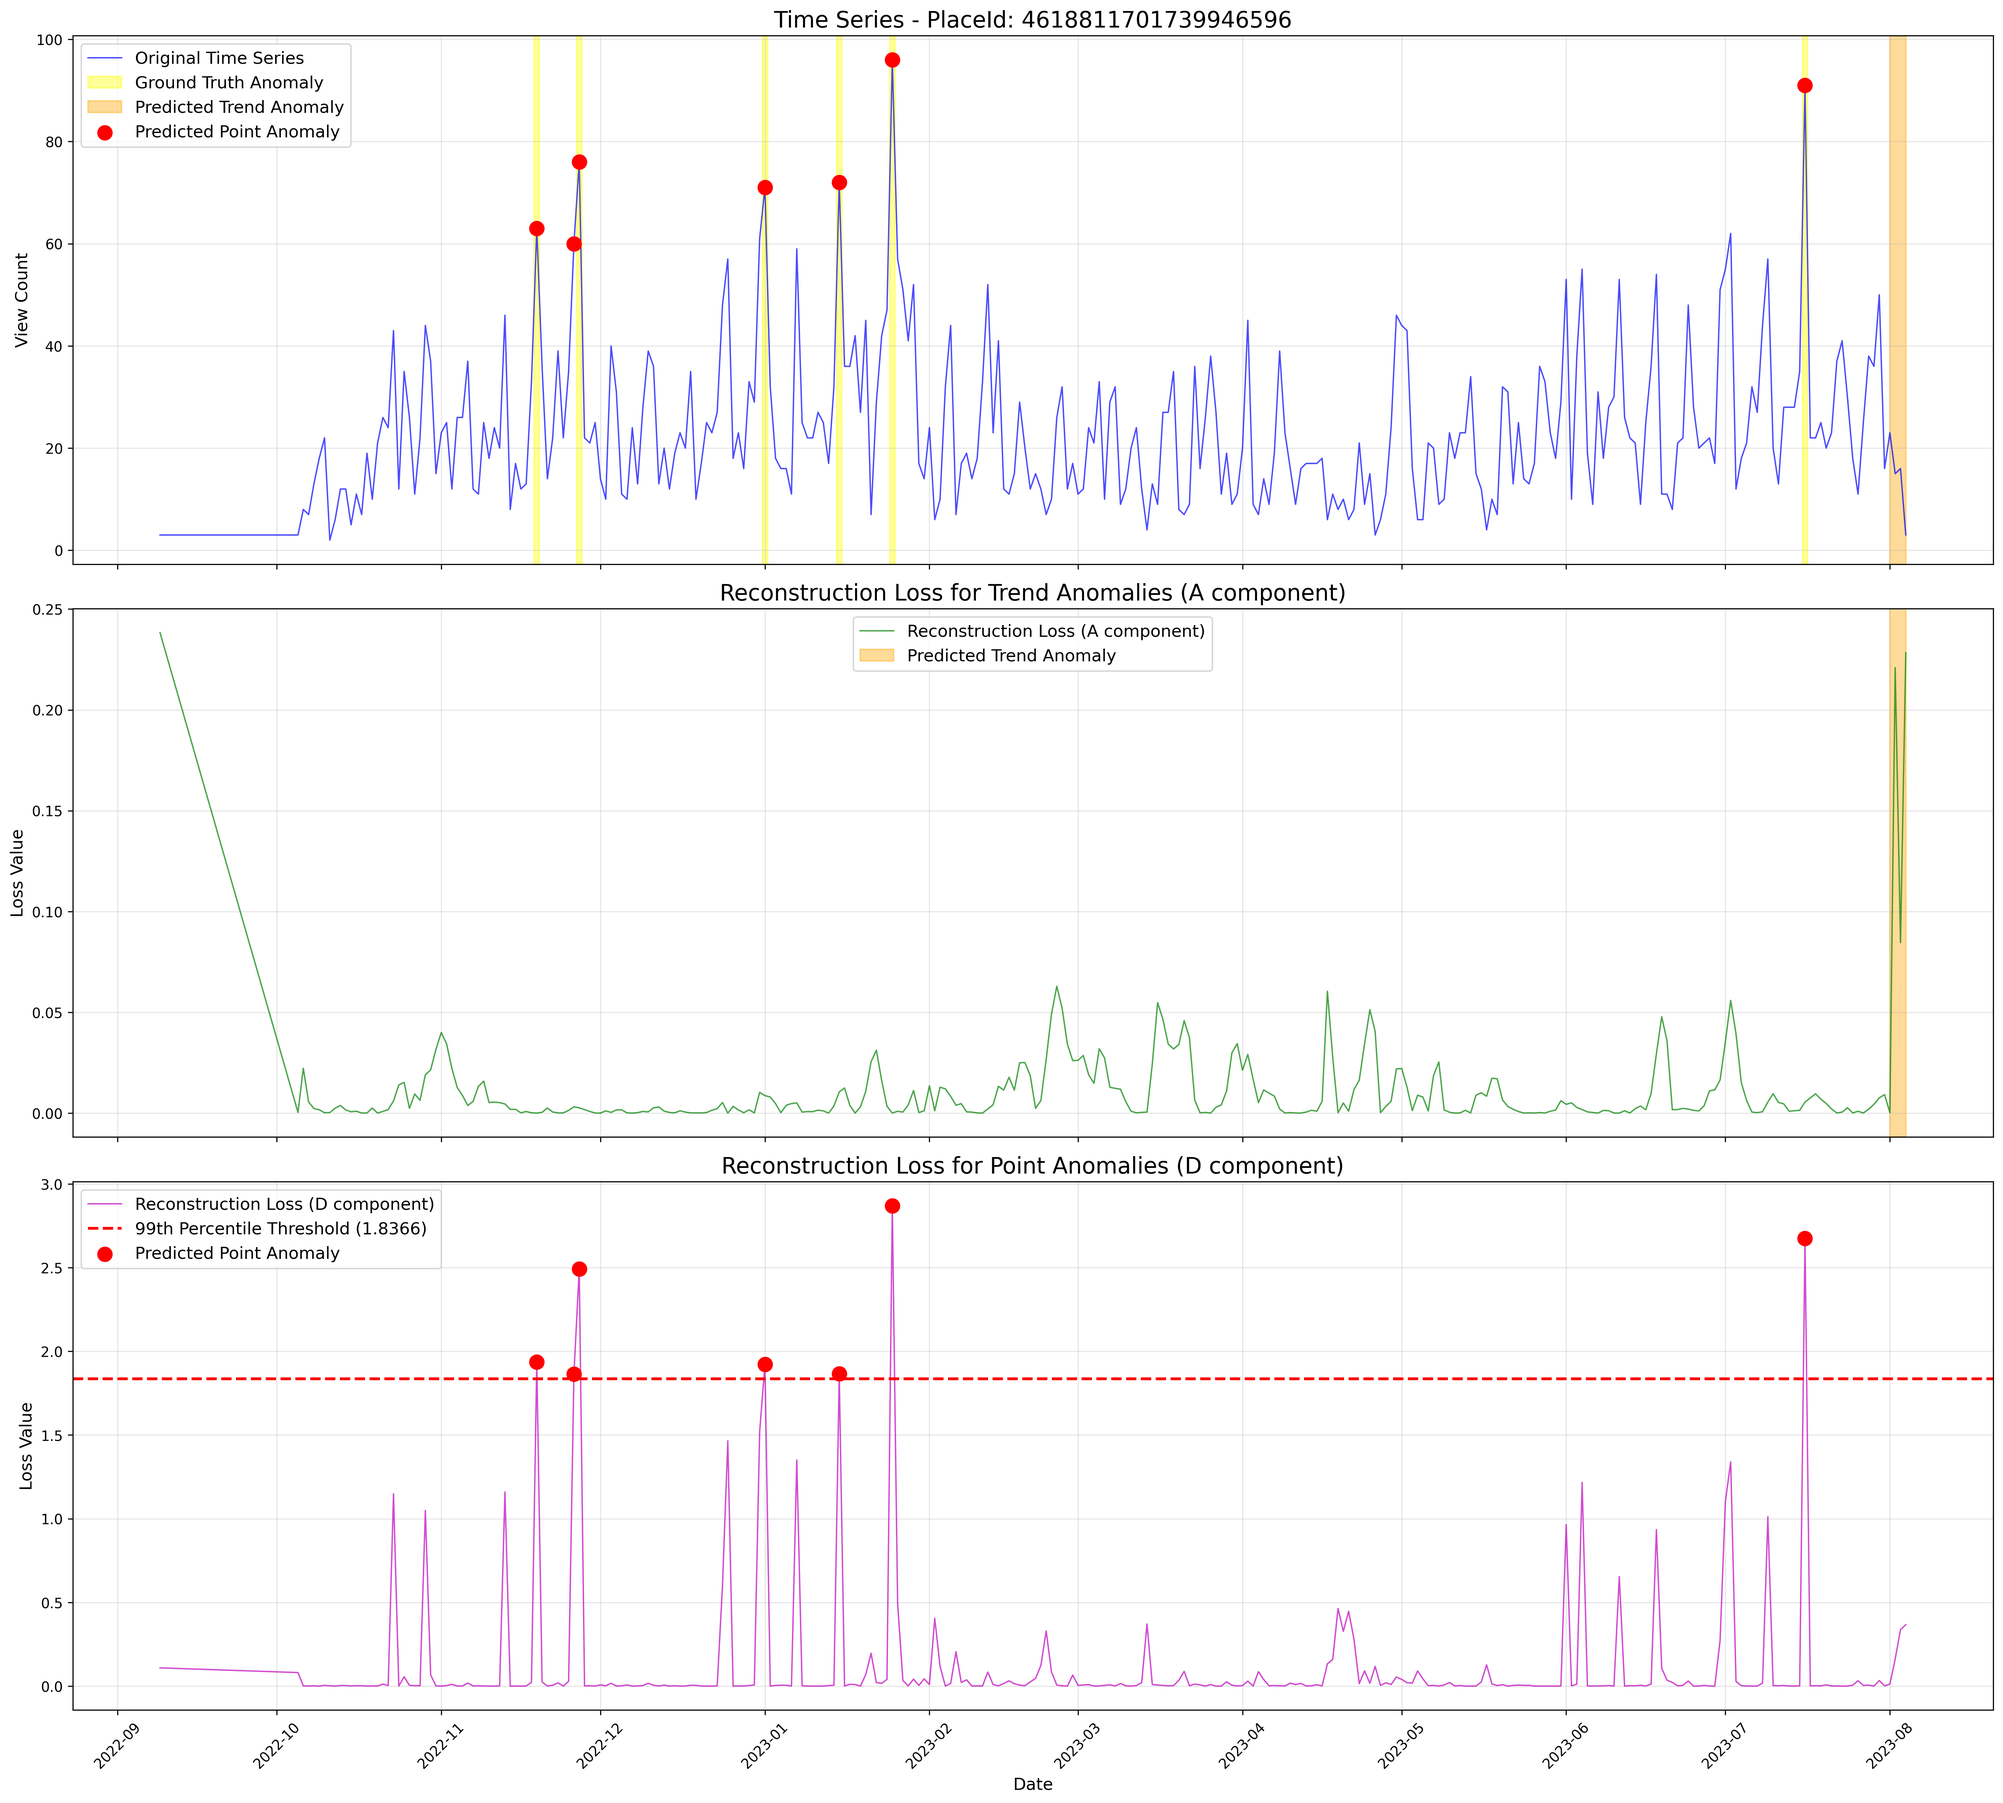
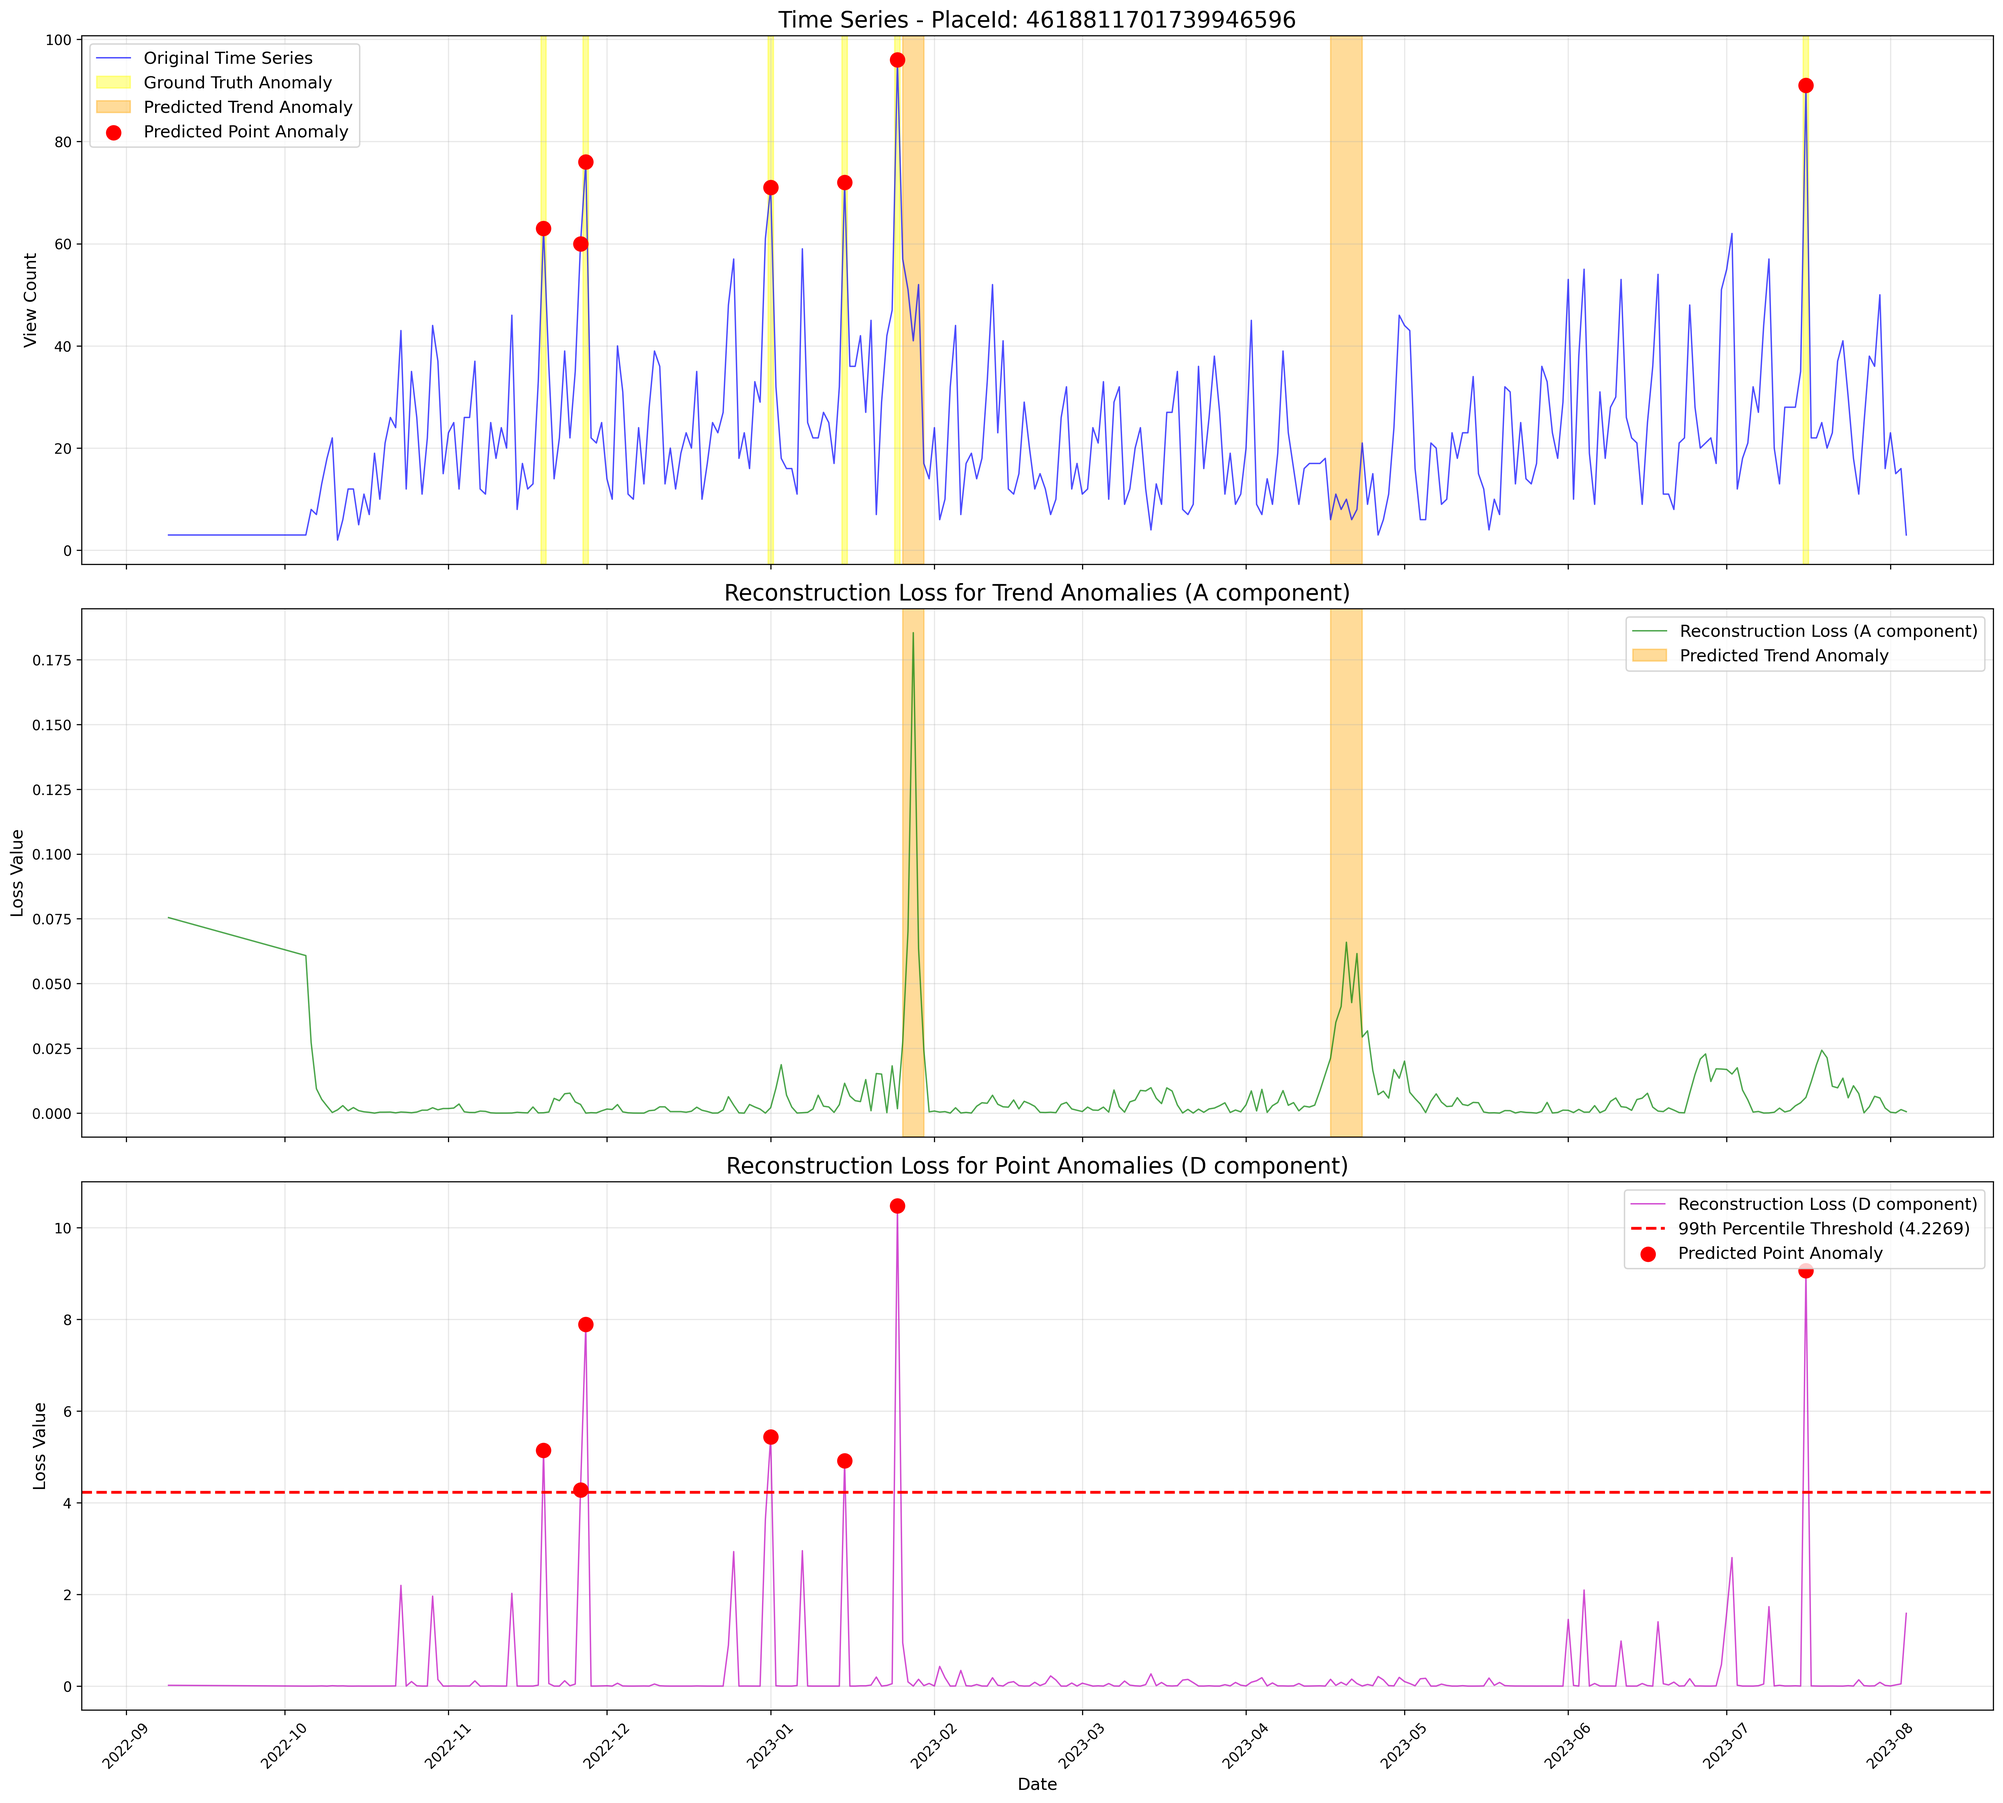
Update model

diff --git a/stage_1/KAMA.py b/stage_1/KAMA.py
@@ -3,26 +3,45 @@ import numpy as np
 import pandas_ta as ta # Thư viện mới để tính KAMA
 from sklearn.preprocessing import RobustScaler
 from scipy.stats import zscore
+from statsmodels.robust import mad
 
-def clean_and_augment_d(d, z_threshold=3.0, noise_scale=0.1):
+def clean_and_augment_d(d, method='mad', threshold=3.5, noise_scale=0.5):
     """
-    Clean outliers trong d và augment.
+    Làm sạch ngoại lệ trong d và tăng cường dữ liệu.
+    
     Args:
-        d: numpy array của detail component.
-        z_threshold: |z| > this là outlier (default 3 cho extreme).
-        noise_scale: Scale noise cho augmentation (0.1 * std).
+        d (np.ndarray): Mảng numpy của thành phần phần dư.
+        method (str): Phương pháp phát hiện ngoại lệ. 'mad' (mặc định) hoặc 'zscore'.
+        threshold (float): Ngưỡng để xác định một điểm là ngoại lệ.
+                           Mặc định là 3.5 cho MAD.
+        noise_scale (float): Tỷ lệ nhiễu để tăng cường dữ liệu.
+        
     Returns:
-        d_aug: d sau clean và augment.
+        d_aug (np.ndarray): Mảng d sau khi đã làm sạch và tăng cường.
     """
-    # Bước 2: Tính z-score
-    z_d = zscore(d)
-    
-    # Bước 3: Detect và replace outliers bằng median
-    outliers = np.abs(z_d) > z_threshold
+    d_clean = d.copy()
     median_d = np.median(d)
-    d_clean = np.where(outliers, median_d, d)
     
-    # Bước 4: Augmentation bằng add noise
+    if method == 'mad':
+        # Sử dụng Median Absolute Deviation (MAD) - Mạnh mẽ hơn Z-score
+        # MAD tính toán độ lệch so với trung vị, ít bị ảnh hưởng bởi ngoại lệ.
+        # hằng số 0.6745 giúp mad tương đương với độ lệch chuẩn của phân phối chuẩn.
+        d_mad = mad(d, c=0.6745)
+        
+        # Tránh chia cho 0 nếu chuỗi dữ liệu không có biến động
+        if d_mad > 1e-8:
+            # Tính điểm số dựa trên MAD
+            mad_score = np.abs(d - median_d) / d_mad
+            outliers = mad_score > threshold
+            d_clean = np.where(outliers, median_d, d)
+            
+    elif method == 'zscore':
+        # Giữ lại phương pháp Z-score nếu bạn muốn so sánh
+        z_d = zscore(d)
+        outliers = np.abs(z_d) > threshold
+        d_clean = np.where(outliers, median_d, d)
+
+    # Augmentation: Thêm nhiễu dựa trên độ lệch chuẩn của dữ liệu đã làm sạch
     std_clean = np.std(d_clean)
     noise = np.random.normal(0, noise_scale * std_clean, len(d_clean))
     d_aug = d_clean + noise
@@ -103,14 +122,20 @@ if __name__ == "__main__":
                 a_series = pd.Series(data['a (approximation)'])
                 d_series = pd.Series(data['d (detail)'])
 
+                # Clean và augment detail component - trả về numpy array
+                d_cleaned = clean_and_augment_d(d_series.values)  
+
                 print(f"\n--- Kết quả cho placeId: {place_id} ---")
                 print("Hệ số Xấp xỉ (a - Chuỗi xu hướng KAMA):")
                 print(a_series.head())
                 a_series.to_csv(f'kama_approximation_placeId_{place_id}.csv', index=False, header=['view'])
                 
                 print("\nHệ số Chi tiết (d - Chuỗi biến động KAMA):")
-                print(d_series.head())
-                d_series.to_csv(f'kama_detail_coeffs_placeId_{place_id}.csv', index=False, header=['view'])
+                print(d_cleaned[:5])  # In 5 phần tử đầu của numpy array
+                
+                # Chuyển numpy array thành pandas Series để lưu file
+                d_cleaned_series = pd.Series(d_cleaned)
+                d_cleaned_series.to_csv(f'kama_detail_coeffs_placeId_{place_id}.csv', index=False, header=['view'])
                 
                 print(f"\nĐã lưu kết quả vào file kama_approximation_placeId_{place_id}.csv và kama_detail_coeffs_placeId_{place_id}.csv")
                 print("\n" + "="*50 + "\n")

diff --git a/stage_2/main.py b/stage_2/main.py
@@ -10,6 +10,7 @@ import matplotlib.pyplot as plt
 from sklearn.manifold import TSNE
 from sklearn.model_selection import train_test_split
 from stage_1.STL import stl_decomposition, clean_and_augment_d
+from stage_1.KAMA import kama_decomposition
 from stage_2.AE import TimeSeriesAutoencoder
 from torch.utils.data import TensorDataset, DataLoader
 from sklearn.preprocessing import RobustScaler
@@ -117,9 +118,10 @@ if __name__ == "__main__":
     # --- 1. Nạp và Chuẩn bị Dữ liệu ---
     DATA_PATH = 'data/cleaned_data_after_idx30.csv'
     MODEL_SAVE_DIR = 'saved_models'  # Thư mục lưu model cuối cùng
+    os.makedirs(MODEL_SAVE_DIR, exist_ok=True)
     MODEL_SAVE_PATH = os.path.join(MODEL_SAVE_DIR, 'autoencoder_model.pth')
 
-    KAN_out_features = 32  # Số đặc trưng đầu ra từ mỗi KANMoELayer
+    KAN_out_features = 16  # Số đặc trưng đầu ra từ mỗi KANMoELayer (đã sửa từ 32 -> 16)
     feature_dim = KAN_out_features * 2  # Tổng số đặc trưng sau
 
     try:
@@ -164,7 +166,7 @@ if __name__ == "__main__":
 
             a_np, d_np = stl_decomposition(place_data_scaled)
 
-            d_np = clean_and_augment_d(d_np, method='mad')  # Clean và augment detail component
+            d_np = clean_and_augment_d(d_np, method='mad', noise_scale=0.5)  # Clean và augment detail component
 
             all_a_data.append(a_np)
             all_d_data.append(d_np)
@@ -224,7 +226,7 @@ if __name__ == "__main__":
                 reconstructed_a, reconstructed_d = autoencoder(a_batch, d_batch)
 
                 # Tính loss với mask
-                loss_fn = nn.HuberLoss(reduction='none')
+                loss_fn = nn.MSELoss(reduction='none')
                 loss_a = masked_loss(reconstructed_a, a_batch, mask_batch, loss_fn)
                 loss_d = masked_loss(reconstructed_d, d_batch, mask_batch, loss_fn)
                 total_loss = loss_a + loss_d
@@ -248,7 +250,7 @@ if __name__ == "__main__":
                     reconstructed_a, reconstructed_d = autoencoder(a_batch, d_batch)
                     
                     # Tính validation loss
-                    loss_fn = nn.HuberLoss(reduction='none')
+                    loss_fn = nn.MSELoss(reduction='none')
                     loss_a = masked_loss(reconstructed_a, a_batch, mask_batch, loss_fn)
                     loss_d = masked_loss(reconstructed_d, d_batch, mask_batch, loss_fn)
                     total_loss = loss_a + loss_d
@@ -307,8 +309,8 @@ if __name__ == "__main__":
                 # Forward pass
                 reconstructed_a, reconstructed_d = autoencoder(a_seq, d_seq)
                 
-                # Tính loss với mask và HuberLoss
-                loss_fn = nn.HuberLoss(reduction='none')
+                # Tính loss với mask và MSELoss
+                loss_fn = nn.MSELoss(reduction='none')
                 loss_a = masked_loss(reconstructed_a, a_seq, mask_seq, loss_fn).item()
                 loss_d = masked_loss(reconstructed_d, d_seq, mask_seq, loss_fn).item()
                 total_loss = loss_a + loss_d

diff --git a/stage_2/inference.py b/stage_2/inference.py
@@ -184,7 +184,7 @@ def inference_on_places(data_path, labels_dir, model_path, num_places=30):
     
     model, _ = load_model(model_path)
     
-    output_dir = 'inference_results_2'
+    output_dir = 'inference_results'
     os.makedirs(output_dir, exist_ok=True)
     
     results = []
@@ -205,14 +205,15 @@ def inference_on_places(data_path, labels_dir, model_path, num_places=30):
         scaler = RobustScaler()
         time_series_scaled = scaler.fit_transform(time_series.reshape(-1, 1)).flatten()
         
-        a_np, d_np = stl_decomposition(time_series_scaled)
+        _, d_np = kama_decomposition(time_series_scaled)
+        a_np, _ = stl_decomposition(time_series_scaled)
         
         a_tensor = torch.FloatTensor(a_np.copy()).unsqueeze(0).unsqueeze(-1)
         d_tensor = torch.FloatTensor(d_np.copy()).unsqueeze(0).unsqueeze(-1)
         
         with torch.no_grad():
             reconstructed_a, reconstructed_d = model(a_tensor, d_tensor)
-            loss_fn = torch.nn.HuberLoss(reduction='none')
+            loss_fn = torch.nn.MSELoss(reduction='none')
             loss_a = loss_fn(reconstructed_a, a_tensor).squeeze().numpy()
             loss_d = loss_fn(reconstructed_d, d_tensor).squeeze().numpy()
         
@@ -225,7 +226,7 @@ def inference_on_places(data_path, labels_dir, model_path, num_places=30):
         
         # 2. Phát hiện Other Anomalies (từ loss_d)
         threshold_d = np.percentile(loss_d, other_percentile)
-        other_anomaly_indices = np.where(loss_d >= threshold_d)[0]
+        other_anomaly_indices = np.where(loss_d > threshold_d)[0]
         
         print(f"  - Raw trend anomalies ({trend_percentile}th percentile on loss_a): {len(trend_anomaly_indices_raw)} points")
         print(f"  - Filtered trend anomalies (≥3 consecutive points): {len(trend_anomaly_indices)} points")
@@ -277,7 +278,7 @@ if __name__ == "__main__":
     # Đường dẫn
     DATA_PATH = 'data/cleaned_data_no_zero_periods_filtered.csv'
     LABELS_DIR = 'new_labels_2'
-    MODEL_PATH = 'saved_models/autoencoder_model.pth'
+    MODEL_PATH = 'saved_models_2/autoencoder_model.pth'
     
     # Kiểm tra sự tồn tại của file
     for path in [DATA_PATH, LABELS_DIR, MODEL_PATH]:

diff --git a/stage_1/STL.py b/stage_1/STL.py
@@ -7,7 +7,7 @@ from scipy.stats import zscore
 from sklearn.preprocessing import RobustScaler
 
 # --- CÁC HÀM CŨ CỦA BẠN (giữ nguyên) ---
-def clean_and_augment_d(d, method='mad', threshold=3.5, noise_scale=0.85):
+def clean_and_augment_d(d, method='mad', threshold=3.5, noise_scale=0.5):
     """
     Làm sạch ngoại lệ trong d và tăng cường dữ liệu.
     

diff --git a/stage_2/KAN_MoE.py b/stage_2/KAN_MoE.py
@@ -1,6 +1,6 @@
 import torch
 import torch.nn as nn
-from spline import LearnableSplineExperts
+from .spline import LearnableSplineExperts
 
 class KANMoELayer(nn.Module):
     def __init__(self, in_features, out_features, num_experts=8, grid_size=10, degree=3):

diff --git a/stage_2/AE.py b/stage_2/AE.py
@@ -2,7 +2,7 @@
 
 import torch
 import torch.nn as nn
-from KAN_MoE import KANMoELayer
+from .KAN_MoE import KANMoELayer
 
 # <<< THAY ĐỔI 1 >>>: Thêm một khối CNN để xử lý thông tin thời gian
 class TemporalBlock(nn.Module):
